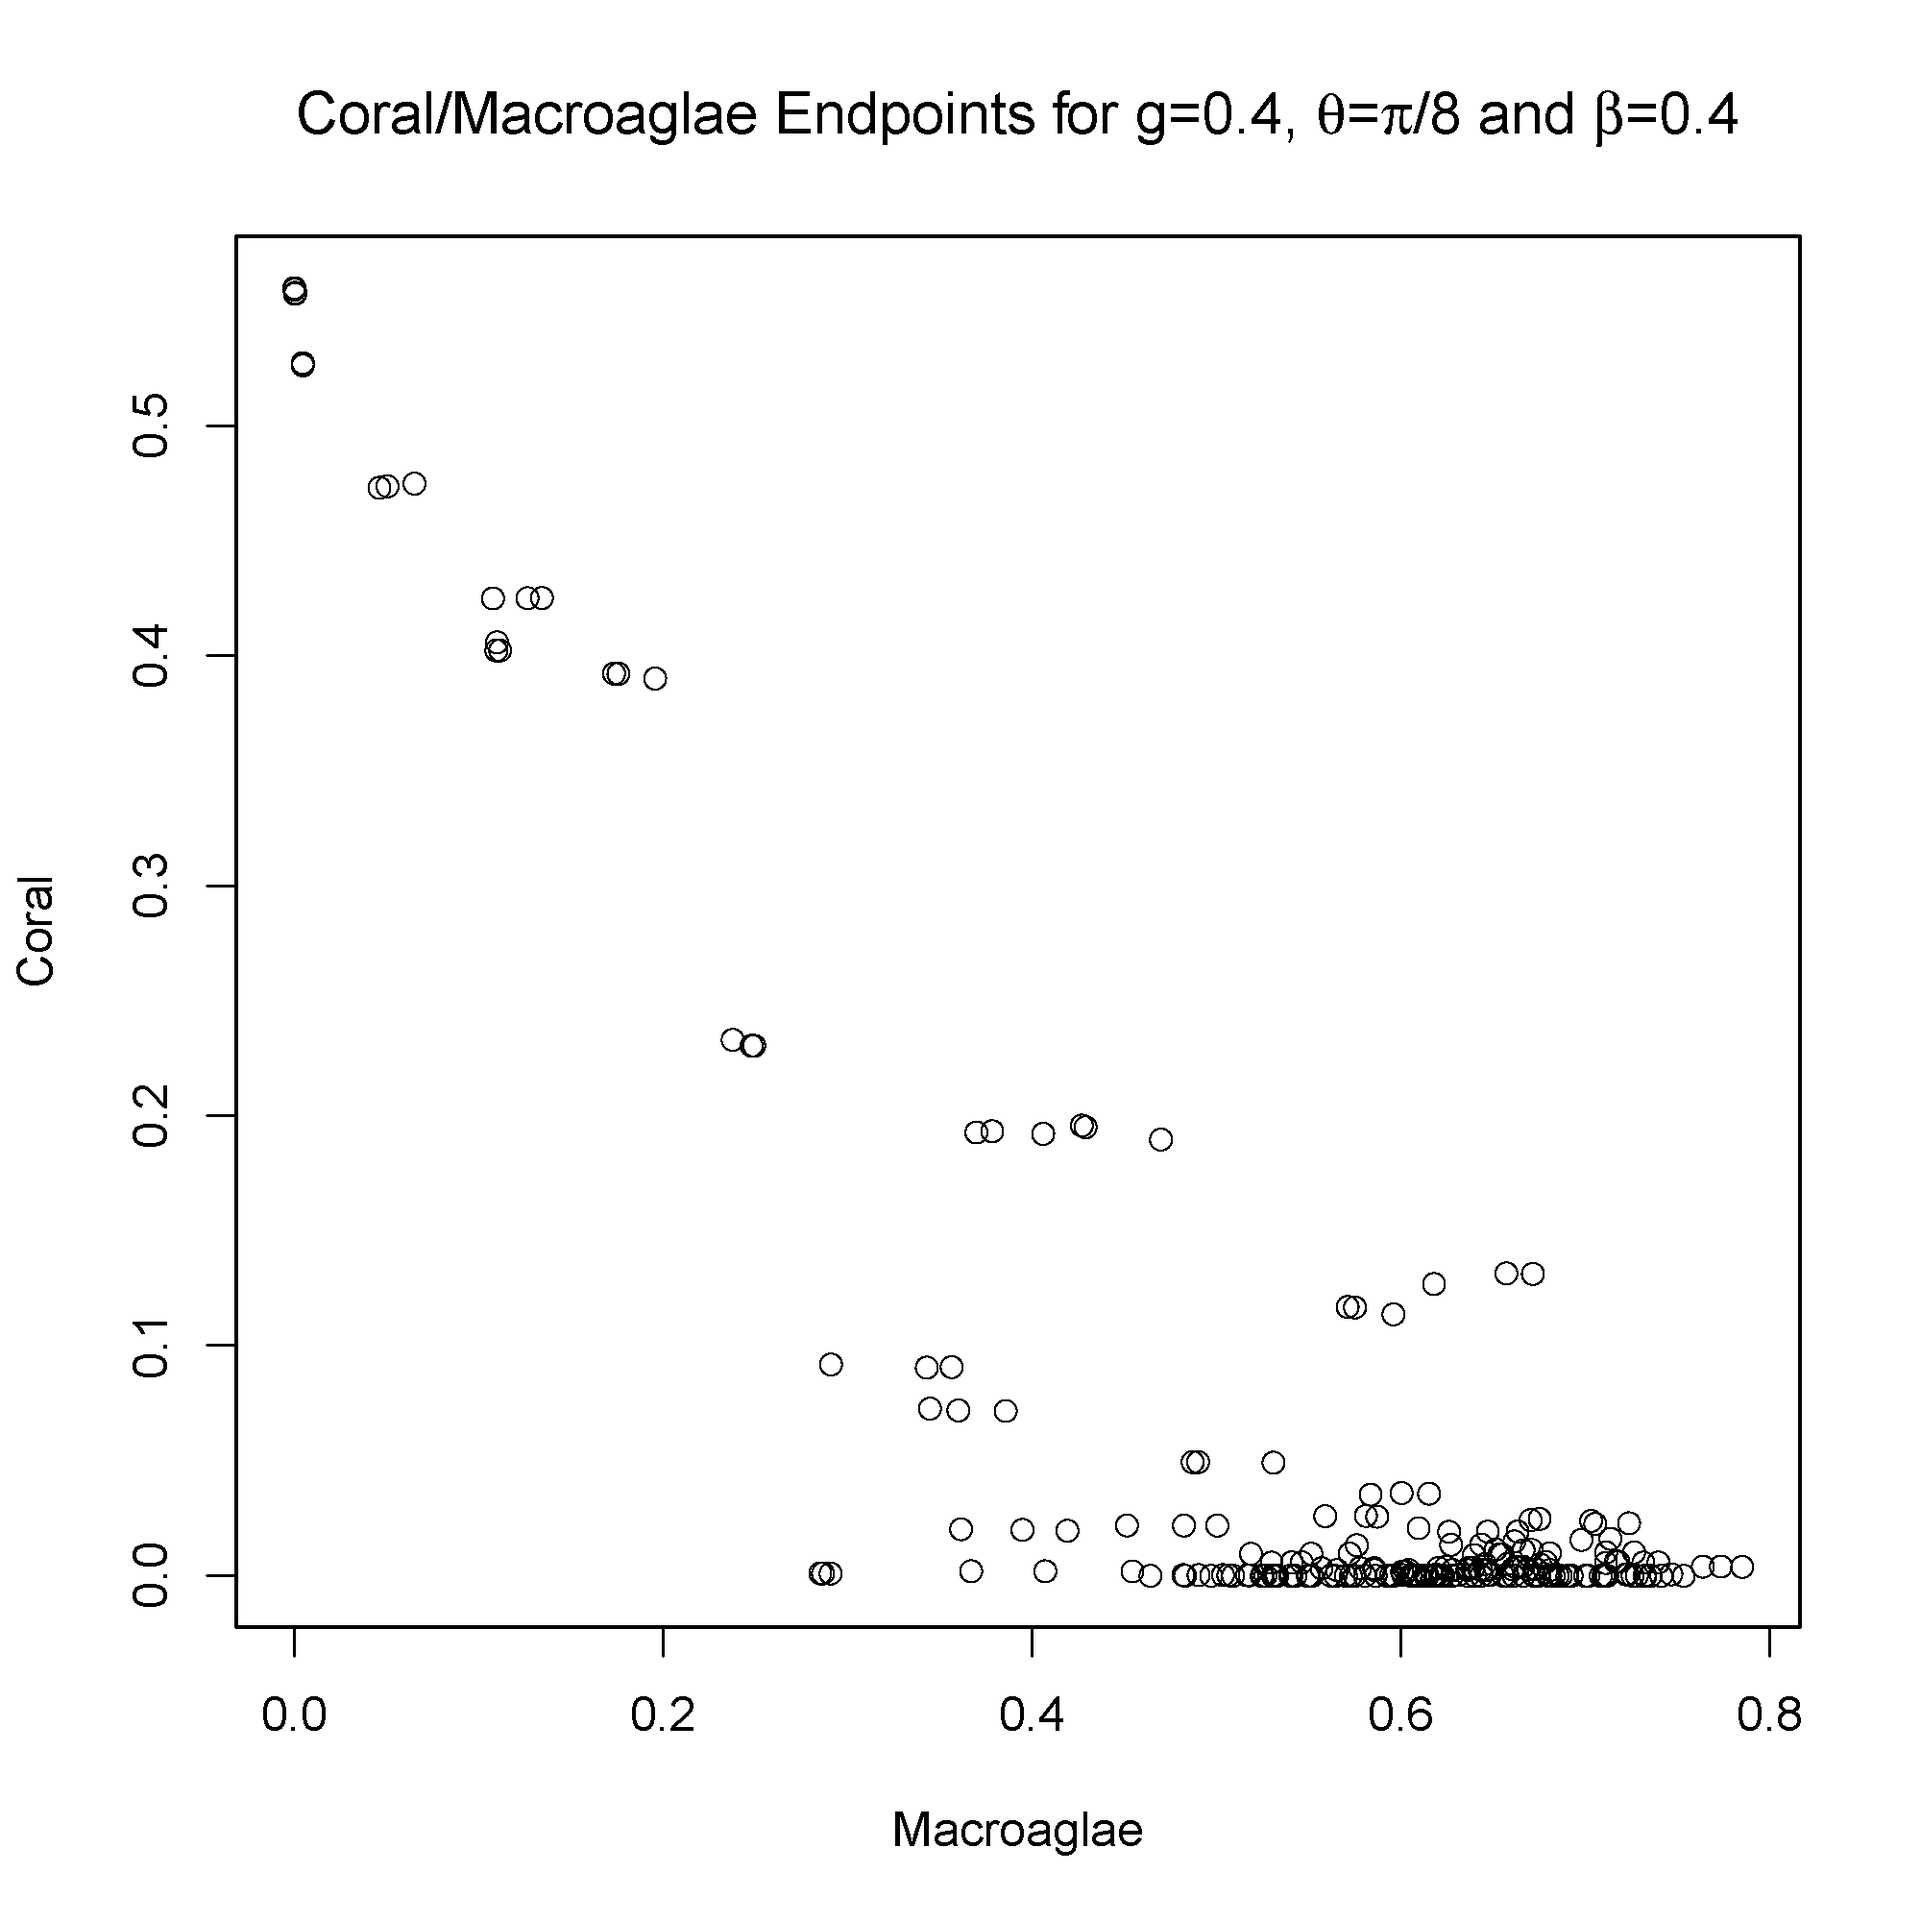
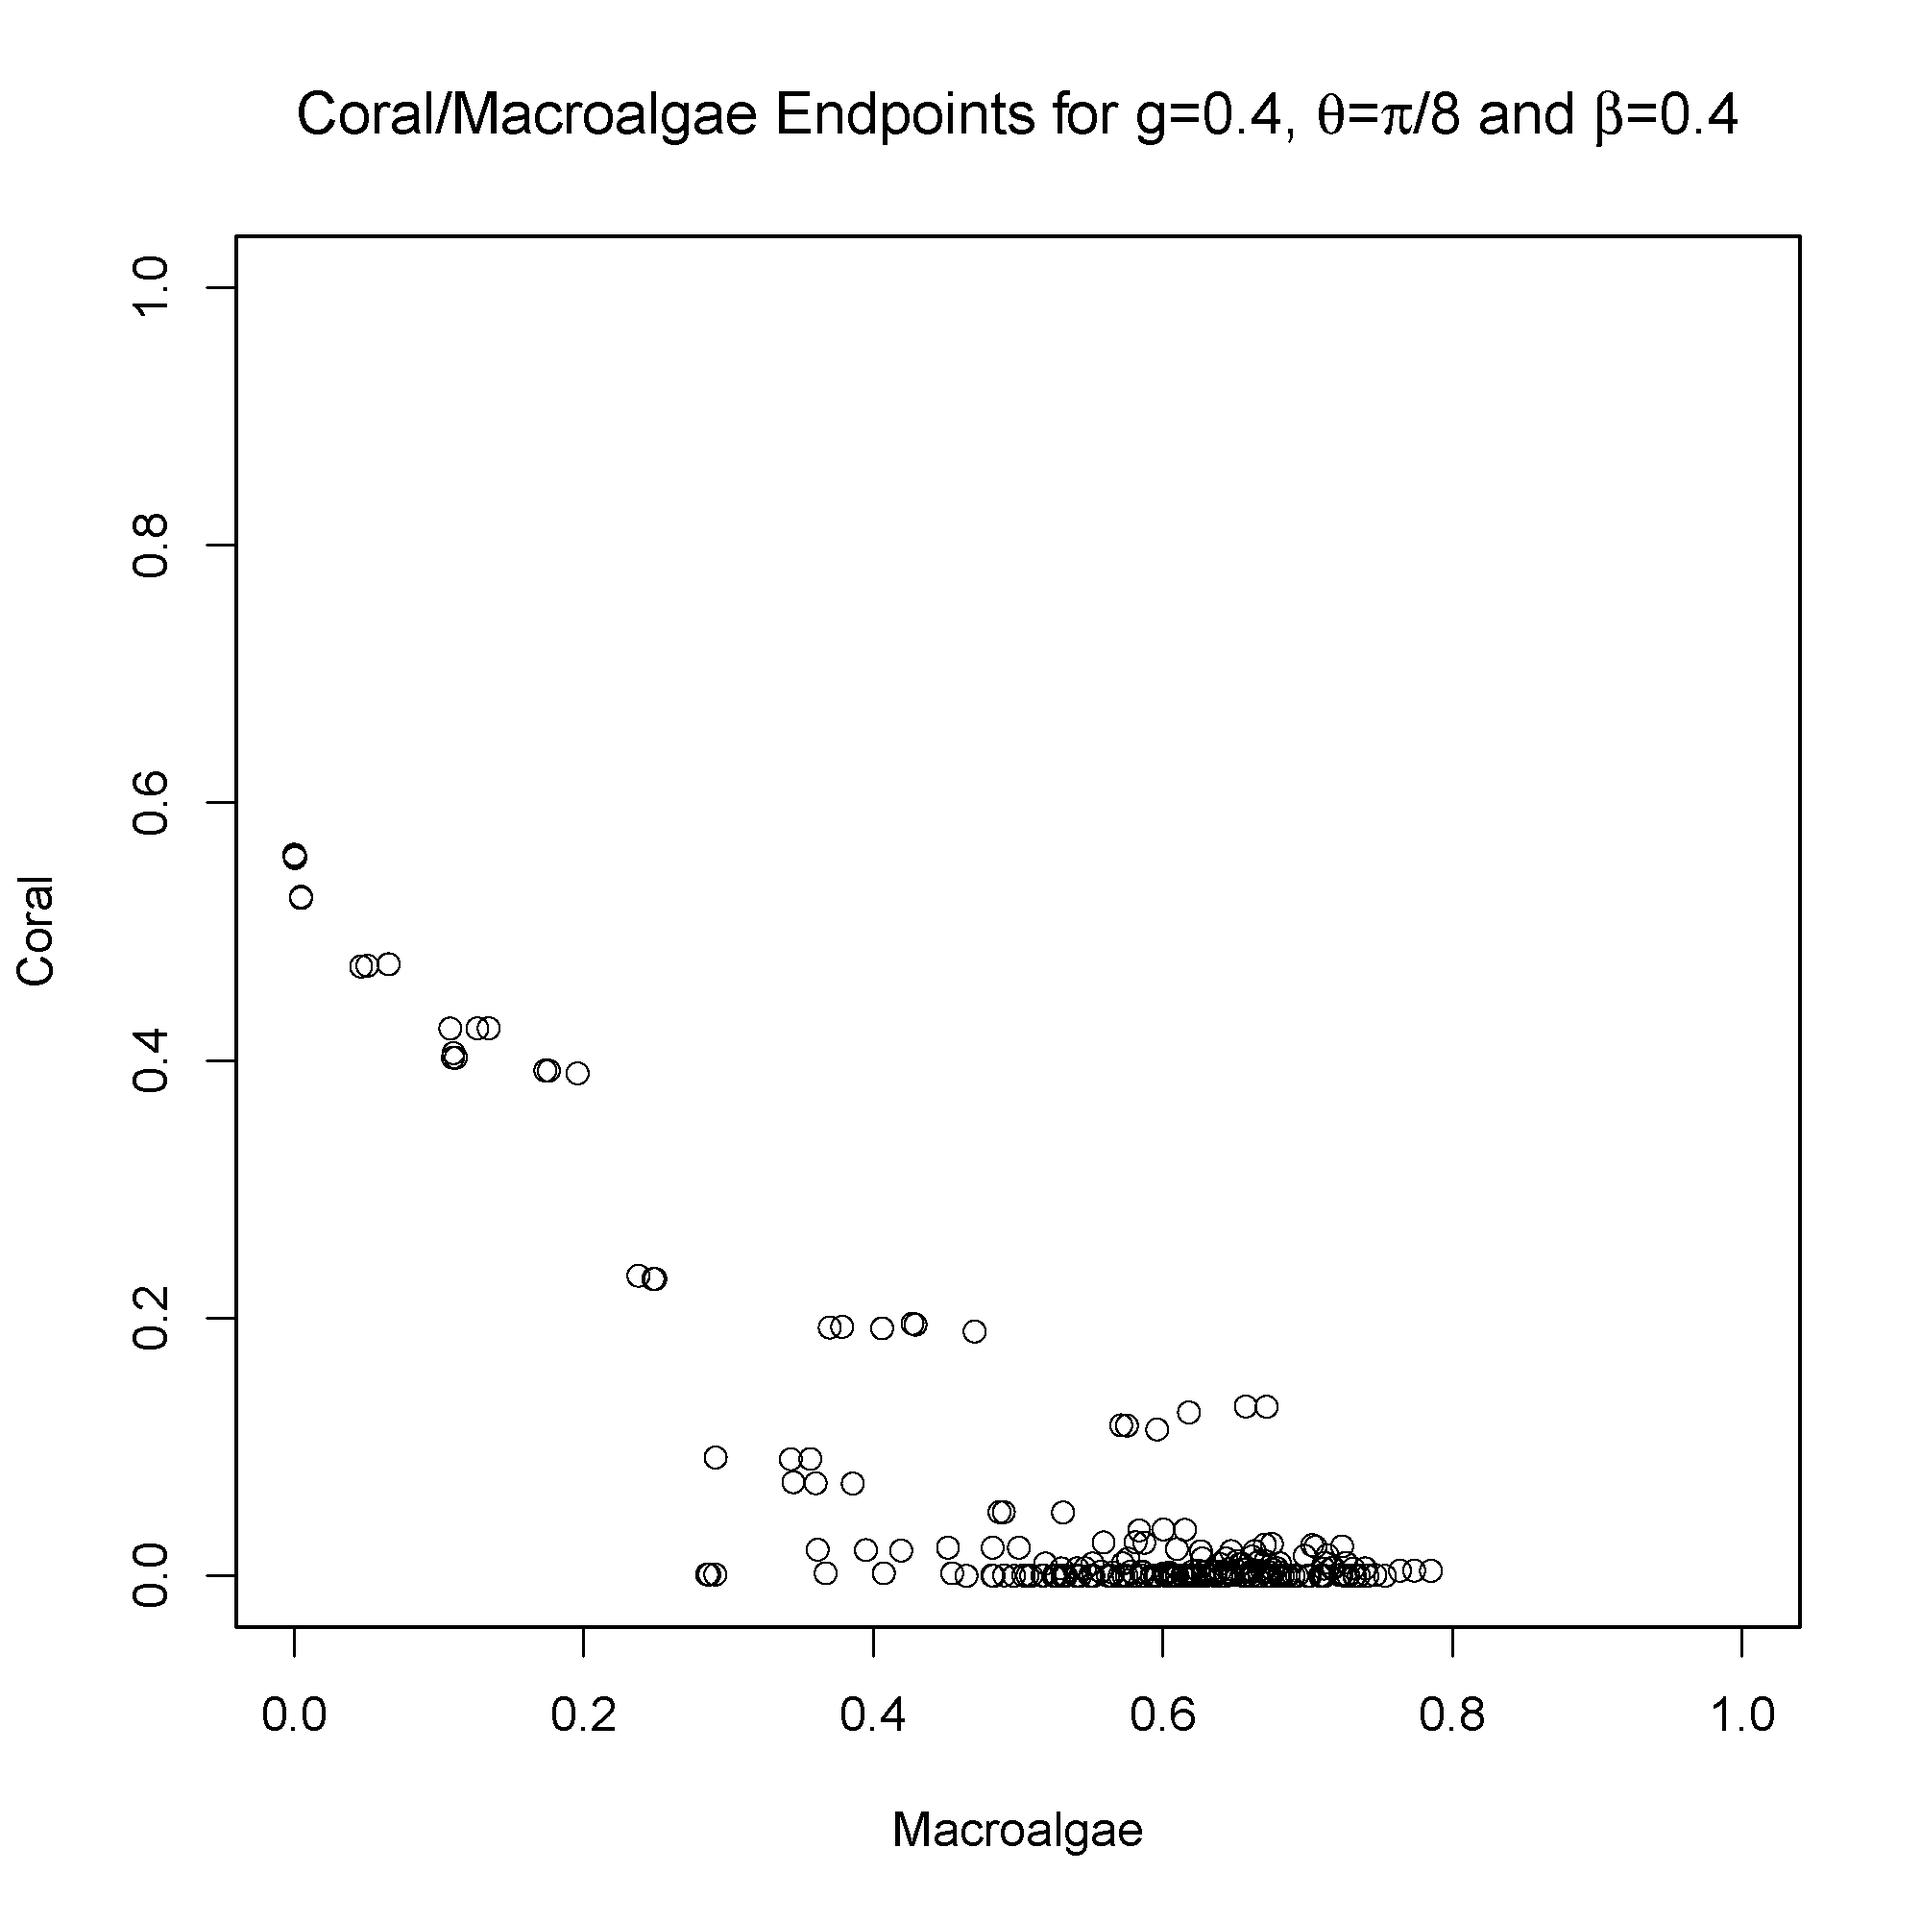
Made revisions to results

diff --git a/Presentations/Final/results.tex b/Presentations/Final/results.tex
@@ -30,11 +30,12 @@
 \begin{frame}{The Simulation}
 We sampled the following values:
 \begin{itemize}
-\item $\theta$ = $\frac{\pi}{80}$ to $\frac{39\pi}{80}$ by $\frac{\pi}{80}$\\
+\item $\theta$ = $\frac{\pi}{42}$ to $\frac{20\pi}{42}$ by $\frac{\pi}{42}$\\
 \item $\beta$ = 0 to 1 by 0.05\\
 \item $\tau$ = 0.5 to 1 by 0.05\\
 \item $g$ = 0.2 to 0.8 by 0.1\\
 \end{itemize}
+We performed Monte Carlo simulations.
 \end{frame}
 
 % %\begin{frame}\frametitle{At First Glance}
@@ -127,7 +128,7 @@ How do we determine which model is the most appropriate?\\
 \end{frame}
 
 \begin{frame}\frametitle{The Whole Picture}
-\includegraphics[scale=.325]{unifiedplot.png}
+\includegraphics[scale=.325]{allscatter11.png}
 \end{frame}
 
 \begin{frame}\frametitle{The Binomial Logit}
@@ -135,7 +136,7 @@ How do we determine which model is the most appropriate?\\
 \end{frame}
 
 \begin{frame}\frametitle{Interpreting the Results}
-Keeping theta and beta constant, an increase in g of:
+Keeping theta and beta constant, an \textbf{increase} in g of:
 \begin{itemize}
 \item 0.01 has an odds ratio of coral survival of 3.21\\
 \item 0.1 has an odds ratio of coral survival of 116413.1
